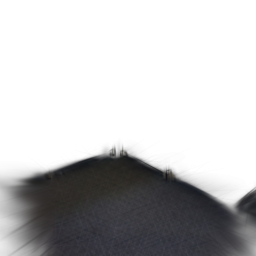
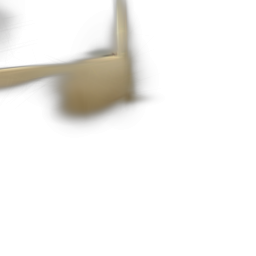
Curate scene0694_01 demo to 11 selected instances
- Keep 11 user-selected instance tokens (Group 1..11), drop the rest.
- For q041, crop only its floating sub-cluster (dense ball at z<2.35,
  ~16k gaussians) and keep the remainder, per request.
- No background rest.ply (show only the selected instances).
- Clean "Group N" chip labels; recompute camera centroid.

diff --git a/index.html b/index.html
@@ -569,6 +569,10 @@ html[data-theme="light"] .theme-toggle .sun{display:none}
           <img class="layer" data-tok="4" src="assets/demo/tok_04.png" alt="" />
           <img class="layer" data-tok="5" src="assets/demo/tok_05.png" alt="" />
           <img class="layer" data-tok="6" src="assets/demo/tok_06.png" alt="" />
+          <img class="layer" data-tok="7" src="assets/demo/tok_07.png" alt="" />
+          <img class="layer" data-tok="8" src="assets/demo/tok_08.png" alt="" />
+          <img class="layer" data-tok="9" src="assets/demo/tok_09.png" alt="" />
+          <img class="layer" data-tok="10" src="assets/demo/tok_10.png" alt="" />
         </div>
         <span class="stage-tag">ScanNet · scene0694_01</span>
         <span class="drag-hint">drag to orbit ⟲</span>
@@ -578,7 +582,7 @@ html[data-theme="light"] .theme-toggle .sun{display:none}
       <!-- control panel -->
       <div class="demo-panel">
         <h3>Instance token groups</h3>
-        <p class="hint">7 token groups · drag the scene to rotate · click to toggle each instance</p>
+        <p class="hint">11 token groups · drag the scene to rotate · click to toggle each instance</p>
         <div class="tok-list" id="tokList"><!-- chips injected by JS --></div>
         <div class="demo-actions">
           <button onclick="setAllTokens(true)">All on</button>
@@ -717,13 +721,17 @@ const DEMO = window.DEMO = {
   // names are "Group N (instance)" — the model produces grouping, the parenthetical
   // is a human read of what that group covers (not a semantic prediction).
   TOKENS: [
-    {file:'tok_00.ply', id:'062', name:'Group 1', color:'#ea5959', z:13},
-    {file:'tok_01.ply', id:'028', name:'Group 2', color:'#5983ea', z:-7},
-    {file:'tok_02.ply', id:'091', name:'Group 3', color:'#aeea59', z:-27},
-    {file:'tok_03.ply', id:'055', name:'Group 4', color:'#ea59d8', z:-12},
-    {file:'tok_04.ply', id:'099', name:'Group 5', color:'#59ead2', z:36},
-    {file:'tok_05.ply', id:'034', name:'Group 6', color:'#eaa759', z:43},
-    {file:'tok_06.ply', id:'006', name:'Group 7', color:'#7d59ea', z:-30},
+    {file:'tok_00.ply', id:'041', name:'Group 1',  color:'#ea5959', z:-35},
+    {file:'tok_01.ply', id:'028', name:'Group 2',  color:'#5983ea', z:-7},
+    {file:'tok_02.ply', id:'091', name:'Group 3',  color:'#aeea59', z:-27},
+    {file:'tok_03.ply', id:'055', name:'Group 4',  color:'#ea59d8', z:-12},
+    {file:'tok_04.ply', id:'099', name:'Group 5',  color:'#59ead2', z:36},
+    {file:'tok_05.ply', id:'034', name:'Group 6',  color:'#eaa759', z:43},
+    {file:'tok_06.ply', id:'071', name:'Group 7',  color:'#7d59ea', z:-16},
+    {file:'tok_07.ply', id:'011', name:'Group 8',  color:'#5fea59', z:3},
+    {file:'tok_08.ply', id:'060', name:'Group 9',  color:'#ea5989', z:-37},
+    {file:'tok_09.ply', id:'076', name:'Group 10', color:'#59b4ea', z:-23},
+    {file:'tok_10.ply', id:'050', name:'Group 11', color:'#deea59', z:-32},
   ],
   enabled: [], is3d: false, apply: null,
 };
@@ -848,8 +856,8 @@ import * as GaussianSplats3D from '@mkkellogg/gaussian-splats-3d';
 
 const BASE = 'assets/demo/splat/';
 const REST = 'rest.ply';                       // background (non-token) gaussians, always on
-// scene0694_01 bbox centroid (fog token dropped) — used to frame the initial camera
-const C = [0.015, -0.010, 2.679];
+// scene0694_01 bbox centroid (11 selected instances) — used to frame the initial camera
+const C = [-0.015, -0.036, 2.710];
 
 function hasWebGL2(){
   try { return !!document.createElement('canvas').getContext('webgl2'); }
@@ -892,6 +900,8 @@ async function boot(){
   const fileFor = i => DEMO.TOKENS[i].file;
   const opt = f => ({ path: BASE + f, splatAlphaRemovalThreshold: 0, progressiveLoad: false });
   let current = [];                          // files currently loaded, in order
+  let hasRest = false;                       // rest.ply may not exist (e.g. all gaussians assigned)
+  try { hasRest = (await fetch(BASE + REST, { method: 'HEAD' })).ok; } catch(e){ hasRest = false; }
 
   async function load(files){
     const cnt = viewer.getSceneCount ? viewer.getSceneCount() : current.length;
@@ -902,7 +912,7 @@ async function boot(){
 
   // initial: all tokens + background
   try {
-    await load([...DEMO.TOKENS.map((_,i)=>fileFor(i)), REST]);
+    await load([...DEMO.TOKENS.map((_,i)=>fileFor(i)), ...(hasRest ? [REST] : [])]);
     viewer.start();
   } catch(e){
     console.warn('[splat] load failed (falling back to diorama):', e);
@@ -919,7 +929,7 @@ async function boot(){
   // rebuild the scene set to match DEMO.enabled (debounced + serialized)
   let busy = false, pending = false, dbt = 0;
   function want(){
-    return [...DEMO.TOKENS.map((_,i)=>i).filter(i=>DEMO.enabled[i]).map(fileFor), REST];
+    return [...DEMO.TOKENS.map((_,i)=>i).filter(i=>DEMO.enabled[i]).map(fileFor), ...(hasRest ? [REST] : [])];
   }
   function same(a,b){ return a.length===b.length && a.every((x,i)=>x===b[i]); }
   async function rebuild(){